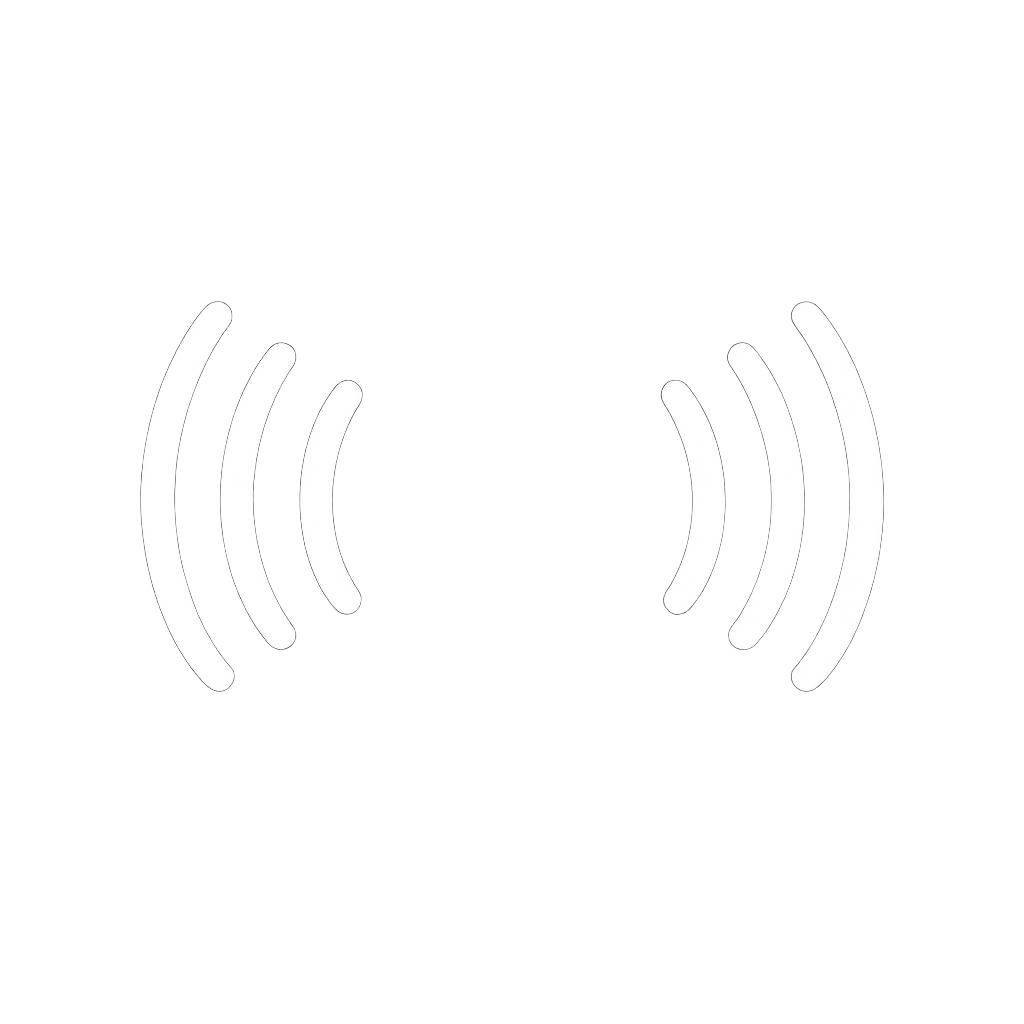
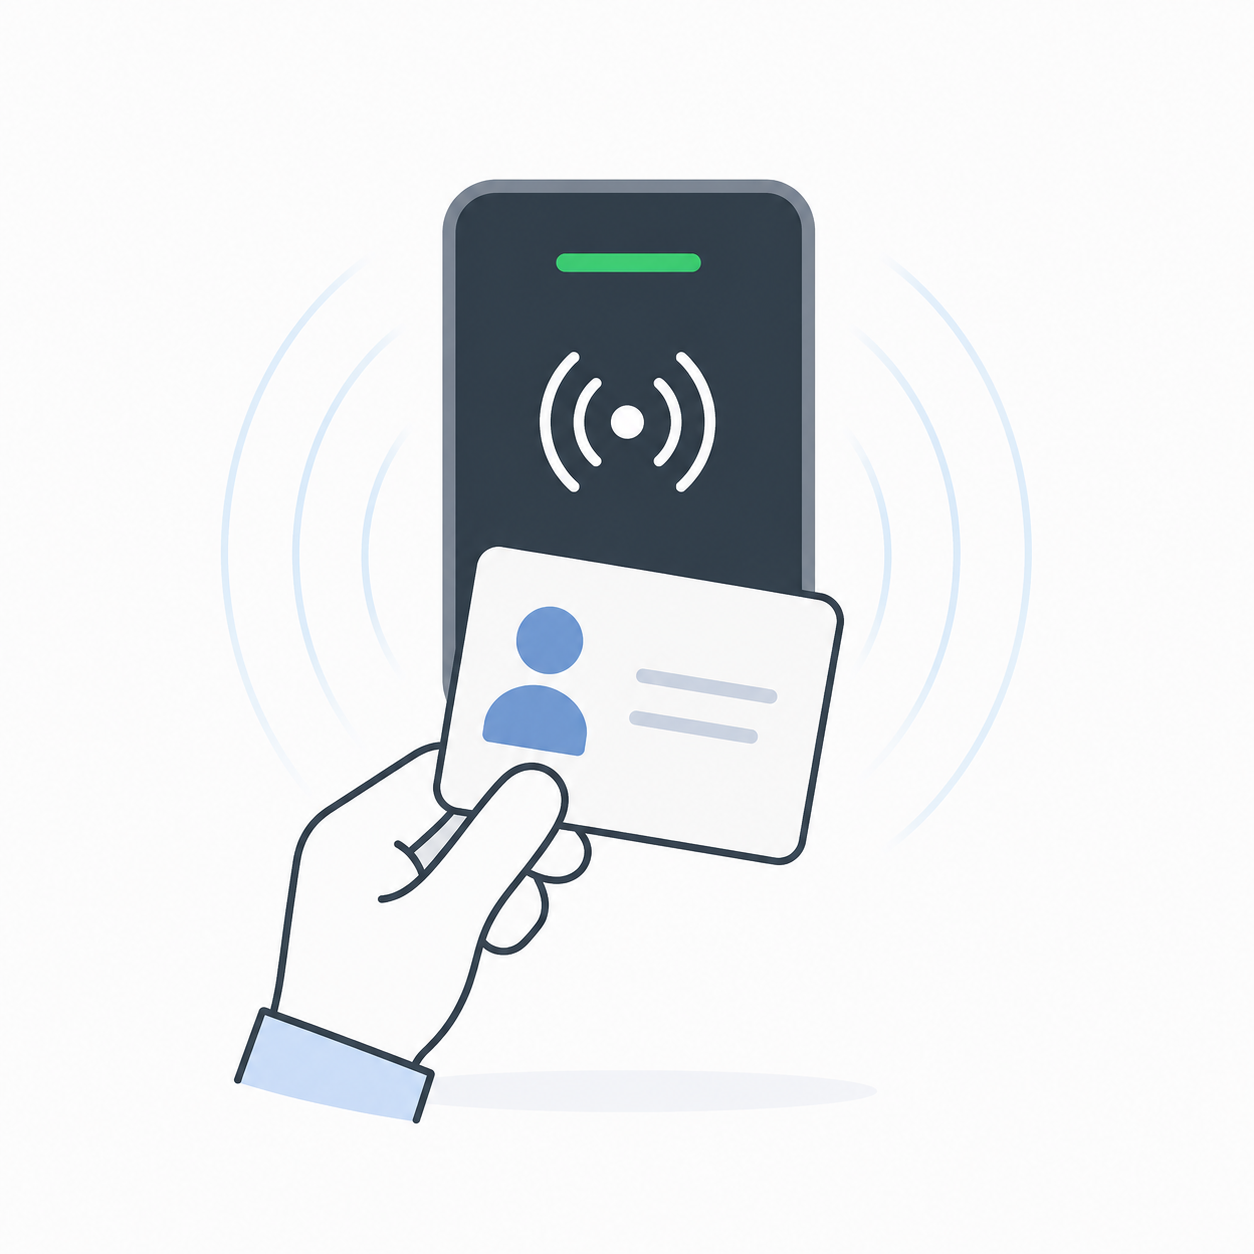
Scan image changed and other minor changes

diff --git a/widgets/staff/option_widgets.py b/widgets/staff/option_widgets.py
@@ -262,7 +262,6 @@ class StaffDataWidget(BaseOptionsWidget):
                 duties_layout.addWidget(LabeledField(day, QLabel(duties_content)))
             
             self.staff_data_layout.addWidget(LabeledField("Duties", duties_widget))
-        
 
 class CardScanScreenWidget(BaseOptionsWidget):
     comm_signal = pySignal(str)
@@ -286,7 +285,7 @@ class CardScanScreenWidget(BaseOptionsWidget):
         scan_img.setStyleSheet("margin-bottom: 20px;")
         self.main_layout.addWidget(scan_img, alignment=Qt.AlignmentFlag.AlignCenter)
         
-        info = QLabel("Please scan RFID card")
+        info = QLabel("Scan RFID card")
         info.setAlignment(Qt.AlignmentFlag.AlignCenter)
         self.main_layout.addWidget(info, alignment=Qt.AlignmentFlag.AlignCenter)
         
@@ -309,8 +308,7 @@ class CardScanScreenWidget(BaseOptionsWidget):
         super().set_self(staff)
         
         self.iud_label = iud_label
-        
-        self.info_label.setText(f"To link an IUD to {self.staff.name.sur} {self.staff.name.first} (ID: {self.staff.id})")
+        self.info_label.setText(f"<span style='font-size: 20px; font-weight: 500; text-align: left;'><span style='font-weight: bold; color: {THEME_MANAGER.pallete_get('primary')};'>ID:</span>  {self.staff.id}<br>\n<span style='font-weight: bold; color: {THEME_MANAGER.pallete_get('primary')};'>Name:</span>  {self.staff.name.full()}</span>")
     
     def finished(self):
         self.iud_label = None

diff --git a/widgets/base_widgets.py b/widgets/base_widgets.py
@@ -337,7 +337,7 @@ class BaseStaffListEntryWidget(QWidget):
     
     def set_iud(self):
         if not self.comm_system.connected:
-            QMessageBox.warning(self.parentWidget(), "Not Connected", "No device connected")
+            QMessageBox.warning(self.parentWidget(), "SetIUDError", "No device connected")
         else:
             self.card_scanner_widget.set_self(self.staff, self.iud_label)
             